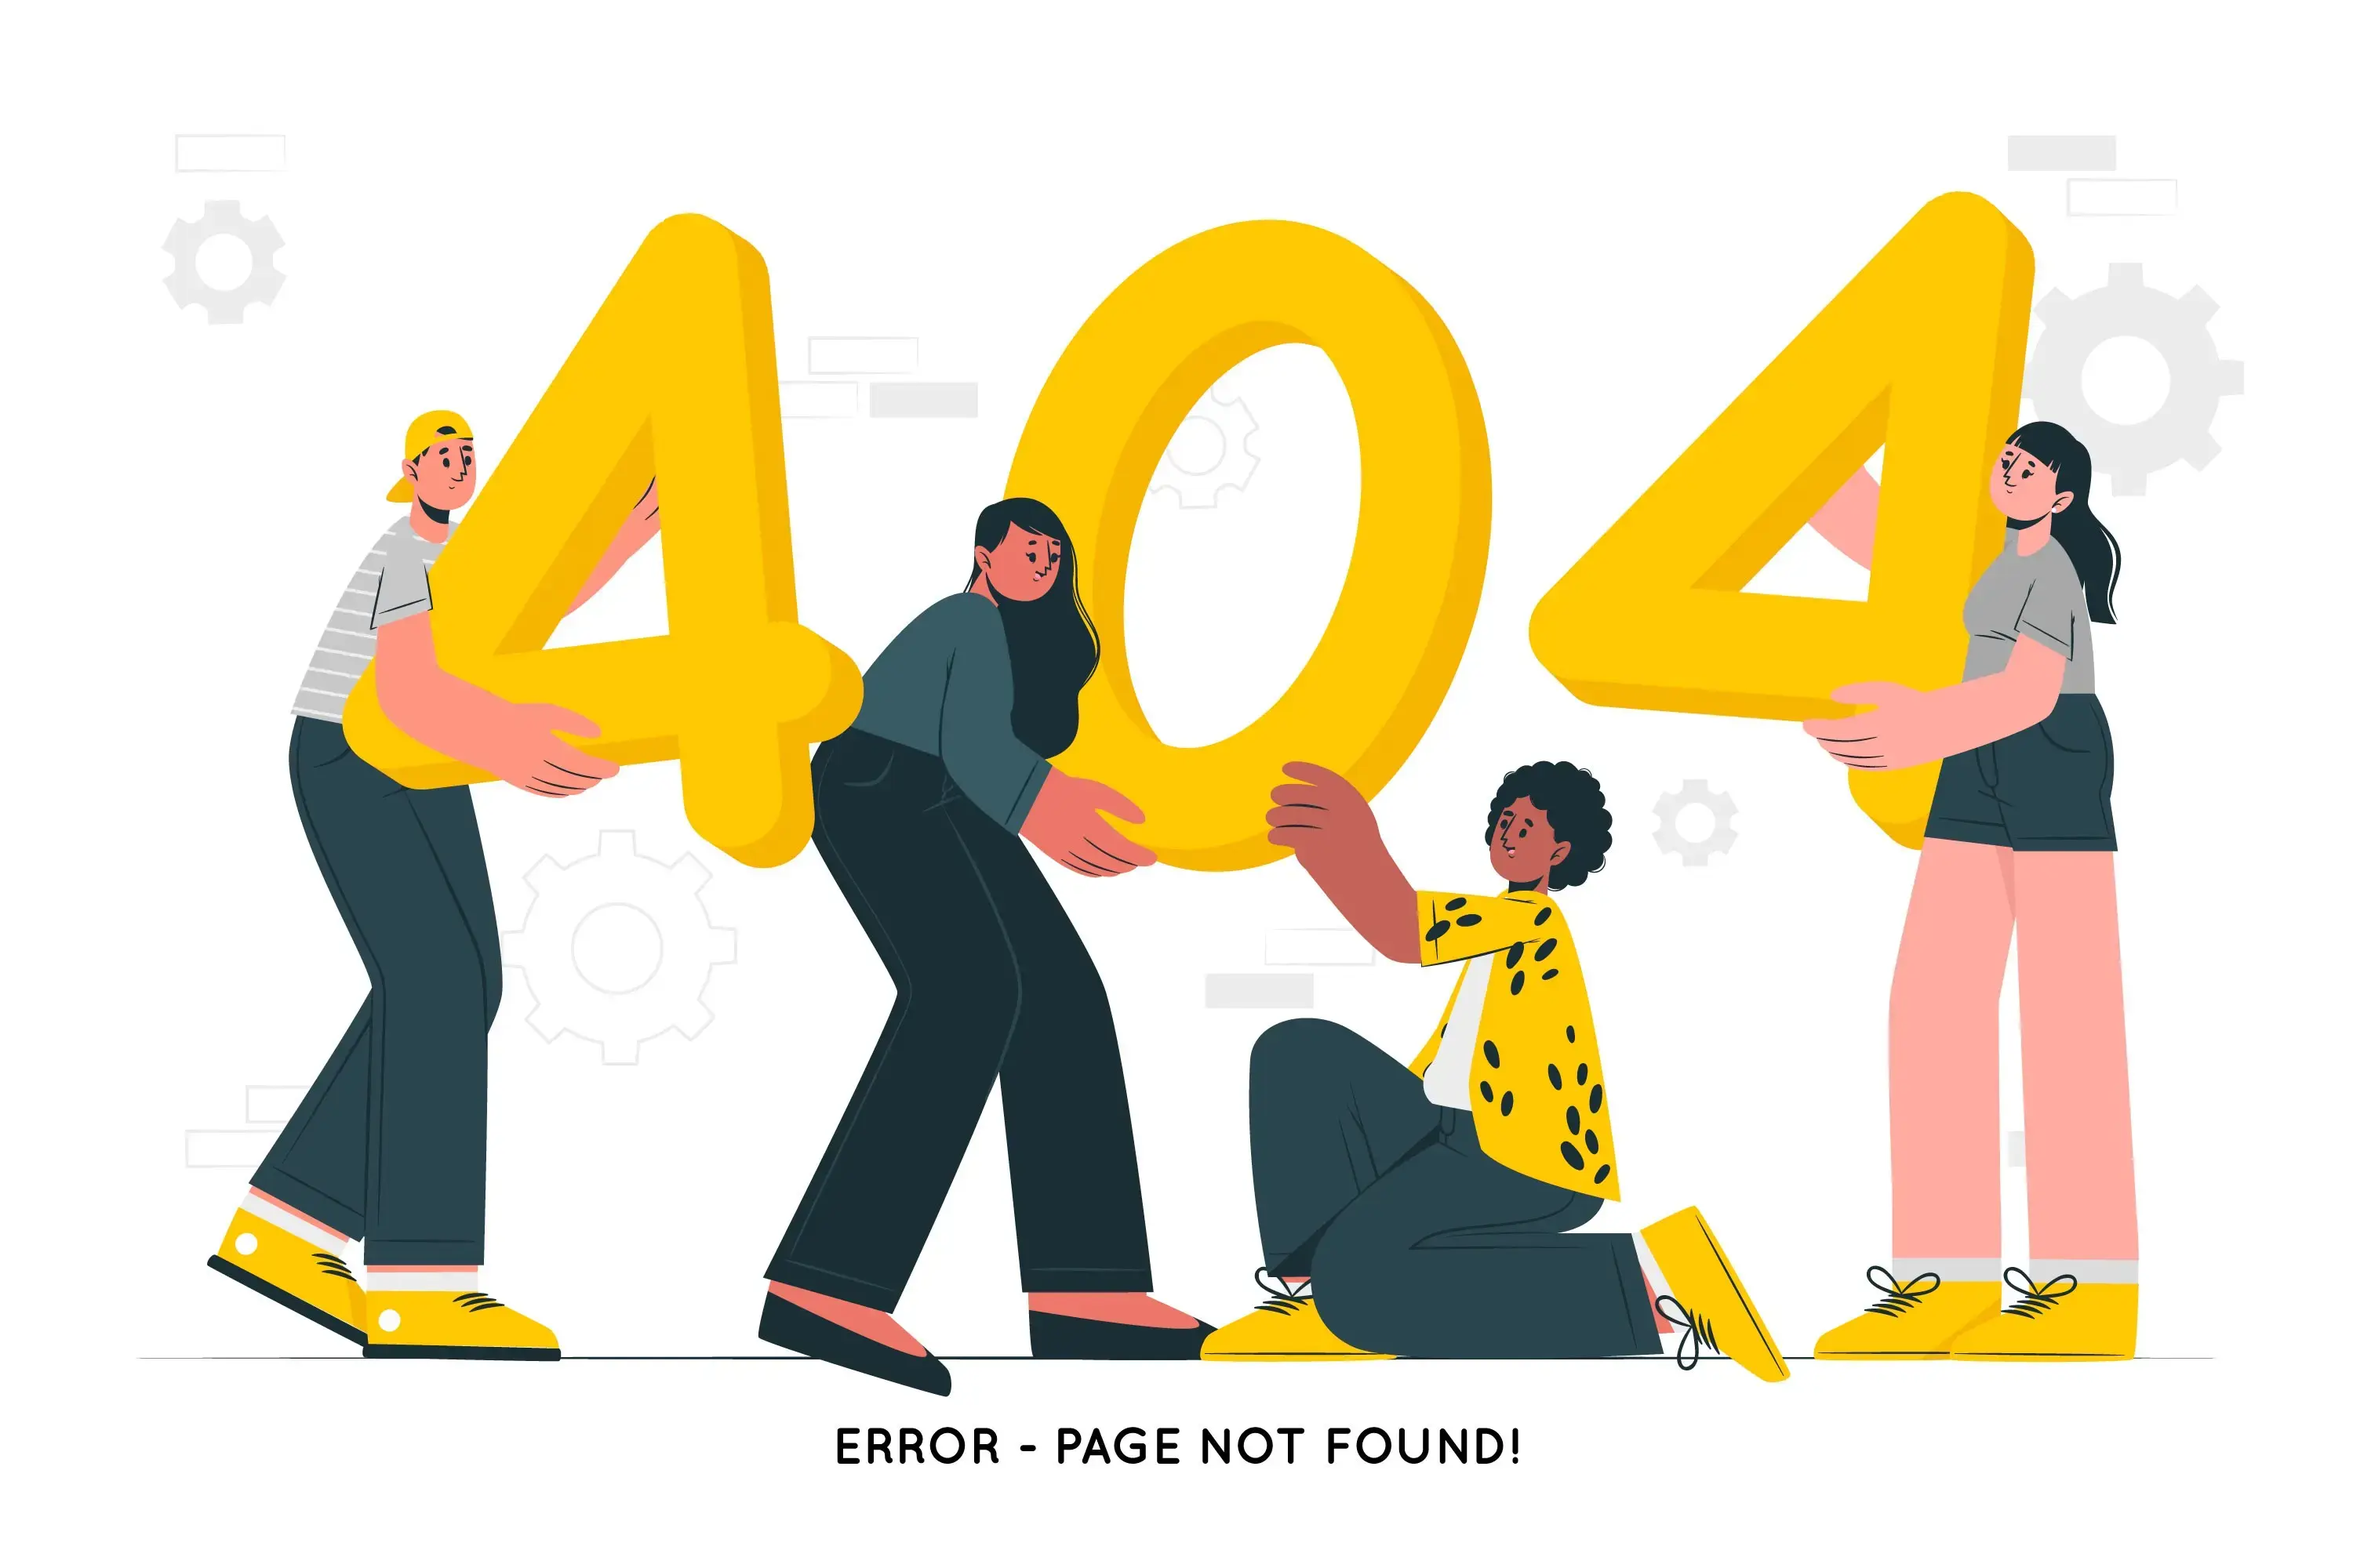
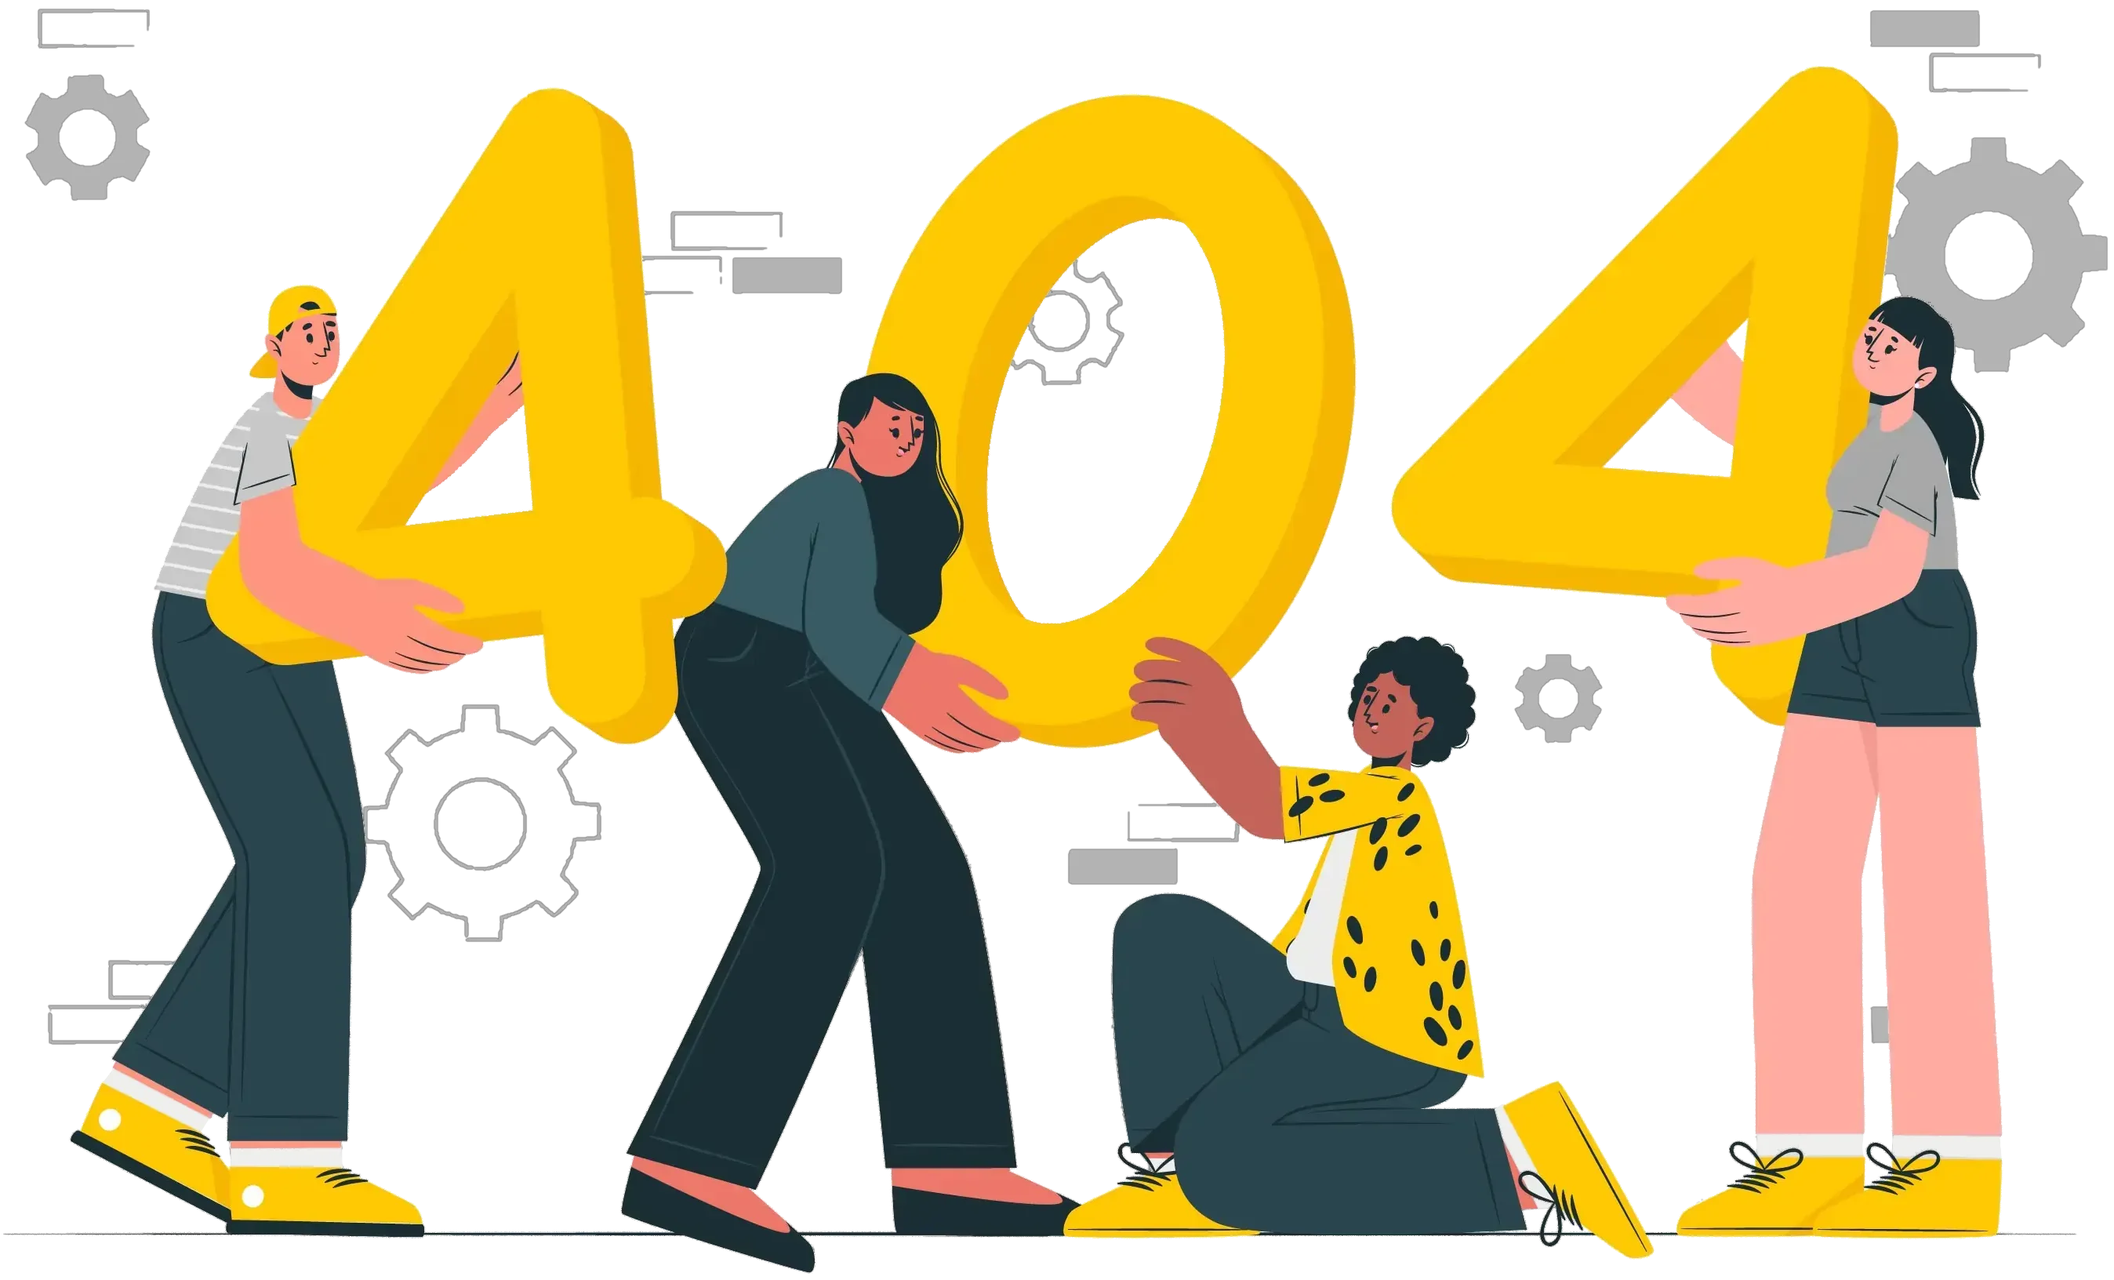
add 404

diff --git a/src/modules/pages/notFoundPage/index.js b/src/modules/pages/notFoundPage/index.js
@@ -1,18 +1,41 @@
-import { NotFound } from 'modules/components'
-import { Container } from 'modules/common'
+import { useNavigate } from 'react-router-dom'
+import notFoundImage from 'assets/images/notFound/notFoundImage.webp'
+import { Button } from 'modules/common'
 import styled from 'styled-components'
+import { Container } from 'modules/common'
 
-const ImageWrapper = styled.div`
+const PageWrapper = styled.div`
 	position: fixed;
 	width: 100vw;
 	height: 100vh;
-	z-index: 1000;
+`
+const ImageWrapper = styled.div`
+	background-image: url(${notFoundImage});
+	height: 100%;
+	width: 100%;
+	background-size: contain;
+	background-repeat: no-repeat;
+	background-position: center;
+	background-color: rgba(255, 255, 255, 0.4);
+	backdrop-filter: blur(50px);
 `
 
 export const NotFoundPage = () => {
+	const navigate = useNavigate()
+	const backHome = () => {
+		navigate('/')
+	}
 	return (
-		<div>
-			<NotFound />
-		</div>
+		<>
+			<PageWrapper>
+				<ImageWrapper>
+					<Container>
+						<Button onClickButton={backHome} type='button' title={'back home'} label={'back home'}>
+							Back home
+						</Button>
+					</Container>
+				</ImageWrapper>
+			</PageWrapper>
+		</>
 	)
 }

diff --git a/src/App.js b/src/App.js
@@ -10,7 +10,7 @@ import { selectorsGlobal } from 'store'
 import { ToastContainer } from 'react-toastify'
 import 'react-toastify/dist/ReactToastify.css'
 import { ROUTES } from 'lib'
-import { Header, Home, Logout, NotFound, NotFoundPage } from 'modules'
+import { Header, Home, Logout, NotFoundPage } from 'modules'
 import { Modal } from 'modules'
 import { Registration } from 'modules/pages/registration/registration'
 import { Login } from 'modules/pages/login/login'

diff --git a/src/modules/components/index.js b/src/modules/components/index.js
@@ -6,4 +6,3 @@ export * from './DashboardTable'
 export * from './addTransaction'
 export * from './Logout'
 export * from './Navigation'
-export * from './notFound'
